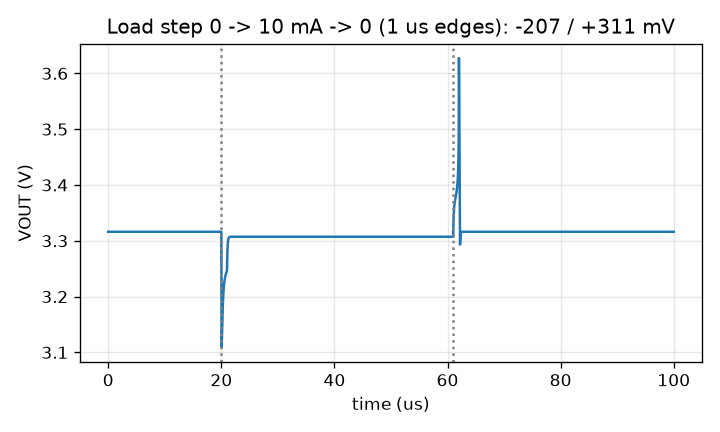
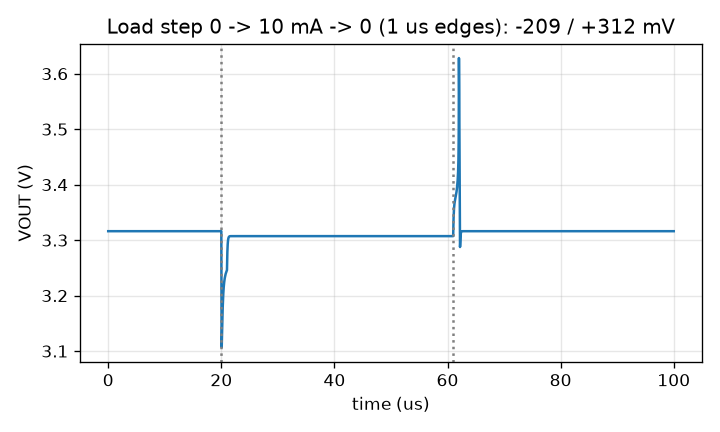
Use GF180MCU PDK resistors and MIM capacitor; add R/C corners
- Rref, RrefFB, RrefEA, R1, R2 -> ppolyf_u_2k_6p0 (5V-domain hi-res poly);
  Cc -> cap_mim_2f0fF, top plate on EAOUT, bottom plate on VOUT
- RrefFB/RrefEA (test-buffer bias) 1M -> 2M: with PDK resistors, Iq hit
  111 uA at fast-resistor/110C; now 95 uA worst, 62 uA typical
- Testbenches load res/mim model sections; run_sims.py sweeps MOS x R/C
  corners x temperature (45 combinations), all specs pass

diff --git a/simulations/run_sims.py b/simulations/run_sims.py
@@ -182,7 +182,8 @@ def typical():
 
 
 # ------------------------------------------------------------------ corners
-CORNERS = ["typical", "ff", "ss", "fs", "sf"]
+CORNERS = ["typical", "ff", "ss", "fs", "sf"]      # MOS corners
+RES_CORNERS = ["typical", "ff", "ss"]               # poly resistor + MIM cap corners
 TEMPS = [-40, 27, 110]
 CORNER_TBS = ["tb_iq", "tb_line_reg", "tb_load_reg", "tb_dropout", "tb_psrr"]
 
@@ -191,14 +192,15 @@ def corners():
     rows = []
     for tb in CORNER_TBS:
         netlist(tb)
-    for c in CORNERS:
-        for t in TEMPS:
-            row = {"corner": c, "temp": t}
+    for c, rc, t in [(c, rc, t) for c in CORNERS for rc in RES_CORNERS for t in TEMPS]:
+            row = {"corner": c, "res": rc, "temp": t}
             for tb in CORNER_TBS:
                 src = (RUN / f"{tb}.spice").read_text()
                 src = re.sub(r"(sm141064\.ngspice) typical", rf"\1 {c}", src)
+                src = src.replace("sm141064.ngspice res_typical", f"sm141064.ngspice res_{rc}")
+                src = src.replace("sm141064.ngspice mimcap_typical", f"sm141064.ngspice mimcap_{rc}")
                 src = src.replace(".control", f".temp {t}\n.control", 1)
-                tag = f"{tb}_{c}_{t}"
+                tag = f"{tb}_{c}_{rc}_{t}"
                 src = src.replace(f"{tb}.raw", f"{tag}.raw").replace(f"{tb}.txt", f"{tag}.txt")
                 (RUN / f"{tag}.spice").write_text(src)
                 row.update(simulate(RUN / f"{tag}.spice", tag))
@@ -207,7 +209,7 @@ def corners():
                 if tb == "tb_load_reg":
                     d = load(tag)
                     row["vout_5mA"] = float(np.interp(5e-3, d[:, 0], d[:, 1]))
-            print(f"  {c:8s} {t:4d}C  VOUT {row['vout_5mA']:.4f} V  Iq {row['iq_uA']:.1f} uA  "
+            print(f"  {c:8s} R/C {rc:8s} {t:4d}C  VOUT {row['vout_5mA']:.4f} V  Iq {row['iq_uA']:.1f} uA  "
                   f"dropout {row['dropout_mV']:.0f} mV  PSRR {row['psrr_100Hz_dB']:.1f} dB", flush=True)
             rows.append(row)
     return rows
@@ -258,12 +260,14 @@ def write_summary(r, rows):
             "",
             "## Process corners x temperature (VIN = 5.0 V)",
             "",
-            "| Corner | Temp (C) | VOUT @5 mA (V) | Iq (uA) | Line reg (%) | Load reg (%) | Dropout @10 mA (mV) | PSRR @100 Hz (dB) |",
-            "|---|---|---|---|---|---|---|---|",
+            "MOS corners tt/ff/ss/fs/sf x poly-resistor and MIM-capacitor corners typical/ff/ss x -40/27/110 C.",
+            "",
+            "| MOS corner | R/C corner | Temp (C) | VOUT @5 mA (V) | Iq (uA) | Line reg (%) | Load reg (%) | Dropout @10 mA (mV) | PSRR @100 Hz (dB) |",
+            "|---|---|---|---|---|---|---|---|---|",
         ]
         for w in rows:
             lines.append(
-                f"| {w['corner']} | {w['temp']} | {w['vout_5mA']:.4f} {'' if S['vout_min'] <= w['vout_5mA'] <= S['vout_max'] else '**FAIL**'} | "
+                f"| {w['corner']} | {w['res']} | {w['temp']} | {w['vout_5mA']:.4f} {'' if S['vout_min'] <= w['vout_5mA'] <= S['vout_max'] else '**FAIL**'} | "
                 f"{w['iq_uA']:.1f} {'' if w['iq_uA'] <= S['iq_max_uA'] else '**FAIL**'} | "
                 f"{w['line_reg_pct']:.3f} {'' if w['line_reg_pct'] <= S['line_reg_max_pct'] else '**FAIL**'} | "
                 f"{w['load_reg_pct']:.3f} {'' if w['load_reg_pct'] <= S['load_reg_max_pct'] else '**FAIL**'} | "

diff --git a/simulations/results/summary.md b/simulations/results/summary.md
@@ -5,19 +5,19 @@ EN = 3.3 V (harness logic level), CL = 2 pF, unless noted.
 
 | Parameter | Spec | Simulated | Result | Testbench |
 |---|---|---|---|---|
-| Output voltage (5 mA) | 3.201 - 3.399 V | 3.3092 V | PASS | tb_load_reg |
+| Output voltage (5 mA) | 3.201 - 3.399 V | 3.3091 V | PASS | tb_load_reg |
 | Dropout (10 mA) | <= 300 mV | 152 mV | PASS | tb_dropout |
-| Quiescent current (no load) | <= 100 uA | 72.4 uA | PASS | tb_iq |
+| Quiescent current (no load) | <= 100 uA | 62.4 uA | PASS | tb_iq |
 | Line regulation (4.5-5.5 V, 5 mA) | <= 1.0 % | 0.042 % | PASS | tb_line_reg |
 | Load regulation (0-10 mA) | <= 1.0 % | 0.270 % | PASS | tb_load_reg |
 | PSRR (100 Hz, 5 mA) | >= 40 dB | 59.0 dB | PASS | tb_psrr |
 | PSRR (10 kHz / 1 MHz) | - | 44.0 / 5.3 dB | info | tb_psrr |
-| Load step 0->10 mA, 1 us | - | -207 / +311 mV | info | tb_tran_load |
+| Load step 0->10 mA, 1 us | - | -209 / +312 mV | info | tb_tran_load |
 | Line step 5.0->4.5 V, 1 us | - | -54 / +52 mV | info | tb_tran_line |
 | EN off -> VOUT | 0 V | 0.00 mV | PASS | tb_en |
 | EN turn-on time (to 3.2 V) | - | 1.63 us | info | tb_en |
 | EN switching threshold | 3.3 V logic | 1.38 / 1.57 V (VIN 4.5 / 5.5) | PASS | tb_en_dc |
-| Shutdown current (EN = 0) | - | 55.5 uA | info | tb_iq |
+| Shutdown current (EN = 0) | - | 46.5 uA | info | tb_iq |
 
 ![line regulation](line_reg.png) ![load regulation](load_reg.png)
 ![dropout](dropout.png) ![PSRR](psrr.png)
@@ -26,20 +26,52 @@ EN = 3.3 V (harness logic level), CL = 2 pF, unless noted.
 
 ## Process corners x temperature (VIN = 5.0 V)
 
-| Corner | Temp (C) | VOUT @5 mA (V) | Iq (uA) | Line reg (%) | Load reg (%) | Dropout @10 mA (mV) | PSRR @100 Hz (dB) |
-|---|---|---|---|---|---|---|---|
-| typical | -40 | 3.3092  | 71.1  | 0.035  | 0.209  | 107  | 60.6  |
-| typical | 27 | 3.3092  | 72.4  | 0.042  | 0.270  | 152  | 59.0  |
-| typical | 110 | 3.3092  | 74.1  | 0.048  | 0.370  | 208  | 57.6  |
-| ff | -40 | 3.3087  | 78.8  | 0.048  | 0.206  | 82  | 57.8  |
-| ff | 27 | 3.3087  | 80.0  | 0.057  | 0.276  | 122  | 56.2  |
-| ff | 110 | 3.3089  | 81.9  | 0.066  | 0.523  | 168  | 54.8  |
-| ss | -40 | 3.3099  | 65.5  | 0.021  | 0.220  | 136  | 65.5  |
-| ss | 27 | 3.3098  | 66.7  | 0.026  | 0.278  | 192  | 63.6  |
-| ss | 110 | 3.3097  | 68.4  | 0.029  | 0.359  | 262  | 62.1  |
-| fs | -40 | 3.3101  | 75.1  | 0.019  | 0.211  | 131  | 66.1  |
-| fs | 27 | 3.3101  | 76.5  | 0.023  | 0.269  | 187  | 64.1  |
-| fs | 110 | 3.3102  | 78.4  | 0.027  | 0.355  | 252  | 62.5  |
-| sf | -40 | 3.3086  | 67.9  | 0.055  | 0.214  | 87  | 56.5  |
-| sf | 27 | 3.3085  | 69.0  | 0.065  | 0.281  | 123  | 55.1  |
-| sf | 110 | 3.3084  | 70.6  | 0.074  | 0.416  | 168  | 53.8  |
+MOS corners tt/ff/ss/fs/sf x poly-resistor and MIM-capacitor corners typical/ff/ss x -40/27/110 C.
+
+| MOS corner | R/C corner | Temp (C) | VOUT @5 mA (V) | Iq (uA) | Line reg (%) | Load reg (%) | Dropout @10 mA (mV) | PSRR @100 Hz (dB) |
+|---|---|---|---|---|---|---|---|---|
+| typical | typical | -40 | 3.3089  | 54.9  | 0.032  | 0.206  | 107  | 61.5  |
+| typical | typical | 27 | 3.3091  | 62.4  | 0.042  | 0.270  | 152  | 59.0  |
+| typical | typical | 110 | 3.3098  | 71.2  | 0.052  | 0.388  | 207  | 56.9  |
+| typical | ff | -40 | 3.3094  | 67.3  | 0.038  | 0.213  | 107  | 59.9  |
+| typical | ff | 27 | 3.3099  | 76.6  | 0.048  | 0.286  | 152  | 57.6  |
+| typical | ff | 110 | 3.3110  | 87.4  | 0.059  | 0.437  | 206  | 55.7  |
+| typical | ss | -40 | 3.3086  | 46.5  | 0.028  | 0.201  | 108  | 62.8  |
+| typical | ss | 27 | 3.3086  | 52.8  | 0.037  | 0.260  | 153  | 60.2  |
+| typical | ss | 110 | 3.3089  | 60.3  | 0.046  | 0.362  | 208  | 58.0  |
+| ff | typical | -40 | 3.3083  | 60.1  | 0.044  | 0.201  | 83  | 58.5  |
+| ff | typical | 27 | 3.3087  | 68.2  | 0.057  | 0.276  | 122  | 56.2  |
+| ff | typical | 110 | 3.3095  | 77.8  | 0.071  | 0.597  | 167  | 54.1  |
+| ff | ff | -40 | 3.3088  | 73.6  | 0.051  | 0.211  | 82  | 57.2  |
+| ff | ff | 27 | 3.3096  | 83.5  | 0.065  | 0.297  | 122  | 55.0  |
+| ff | ff | 110 | 3.3109  | 95.2  | 0.081  | 0.809  | 166  | 52.9  |
+| ff | ss | -40 | 3.3079  | 51.1  | 0.039  | 0.195  | 83  | 59.6  |
+| ff | ss | 27 | 3.3081  | 57.9  | 0.051  | 0.263  | 123  | 57.2  |
+| ff | ss | 110 | 3.3086  | 66.0  | 0.063  | 0.491  | 168  | 55.2  |
+| ss | typical | -40 | 3.3096  | 51.1  | 0.020  | 0.217  | 137  | 66.3  |
+| ss | typical | 27 | 3.3097  | 58.1  | 0.026  | 0.278  | 192  | 63.6  |
+| ss | typical | 110 | 3.3102  | 66.2  | 0.031  | 0.369  | 262  | 61.7  |
+| ss | ff | -40 | 3.3100  | 62.5  | 0.023  | 0.223  | 136  | 65.0  |
+| ss | ff | 27 | 3.3104  | 71.1  | 0.028  | 0.290  | 191  | 62.9  |
+| ss | ff | 110 | 3.3113  | 81.0  | 0.031  | 0.393  | 261  | 61.7  |
+| ss | ss | -40 | 3.3093  | 43.3  | 0.018  | 0.214  | 137  | 67.6  |
+| ss | ss | 27 | 3.3092  | 49.1  | 0.023  | 0.270  | 192  | 64.7  |
+| ss | ss | 110 | 3.3095  | 56.1  | 0.028  | 0.354  | 263  | 62.5  |
+| fs | typical | -40 | 3.3097  | 57.5  | 0.017  | 0.208  | 132  | 67.3  |
+| fs | typical | 27 | 3.3101  | 65.5  | 0.023  | 0.269  | 187  | 64.1  |
+| fs | typical | 110 | 3.3109  | 74.9  | 0.029  | 0.370  | 251  | 61.8  |
+| fs | ff | -40 | 3.3103  | 70.6  | 0.021  | 0.215  | 131  | 65.2  |
+| fs | ff | 27 | 3.3110  | 80.4  | 0.027  | 0.284  | 186  | 62.5  |
+| fs | ff | 110 | 3.3123  | 91.9  | 0.032  | 0.408  | 245  | 60.8  |
+| fs | ss | -40 | 3.3093  | 48.7  | 0.014  | 0.203  | 132  | 69.4  |
+| fs | ss | 27 | 3.3095  | 55.4  | 0.020  | 0.260  | 187  | 65.6  |
+| fs | ss | 110 | 3.3100  | 63.4  | 0.026  | 0.348  | 252  | 62.9  |
+| sf | typical | -40 | 3.3083  | 53.0  | 0.052  | 0.210  | 87  | 57.1  |
+| sf | typical | 27 | 3.3085  | 59.9  | 0.065  | 0.281  | 123  | 55.1  |
+| sf | typical | 110 | 3.3090  | 68.2  | 0.079  | 0.445  | 173  | 53.2  |
+| sf | ff | -40 | 3.3087  | 64.8  | 0.058  | 0.218  | 87  | 56.0  |
+| sf | ff | 27 | 3.3092  | 73.4  | 0.072  | 0.297  | 122  | 54.1  |
+| sf | ff | 110 | 3.3101  | 83.5  | 0.087  | 0.521  | 172  | 52.4  |
+| sf | ss | -40 | 3.3080  | 45.0  | 0.046  | 0.205  | 88  | 58.1  |
+| sf | ss | 27 | 3.3080  | 50.8  | 0.058  | 0.270  | 123  | 56.0  |
+| sf | ss | 110 | 3.3082  | 57.8  | 0.072  | 0.404  | 168  | 54.1  |

diff --git a/README.md b/README.md
@@ -74,7 +74,8 @@ Provides a locally-regulated, low-noise 3.3V rail, isolated from the noise on th
 
 Schematic design and pre-layout simulation are complete; all target
 specifications are met in simulation at the typical corner and across
-process corners (tt/ff/ss/fs/sf) from -40 C to 110 C. Layout, DRC/LVS
+process corners: MOS tt/ff/ss/fs/sf x poly-resistor/MIM-capacitor
+typical/ff/ss x -40/27/110 C (45 combinations). Layout, DRC/LVS
 sign-off and post-layout verification have not started yet.
 
 ## 7. Harness Resources Required
@@ -89,9 +90,22 @@ sign-off and post-layout verification have not started yet.
 | 2 shared analog lines | `FB_BUF`, `EAOUT_BUF` test outputs |
 | Bandgap-referenced current sources | none (biasing is internal) |
 
-All transistors are 5V devices (`nfet_05v0` / `pfet_05v0`), matching the 5.0V
-`VIN` domain. `EN` comes from the harness's 3.3V logic, so it passes through an
+All devices are GF180MCU PDK devices rated for the 5.0V `VIN` domain:
+transistors are `nfet_05v0` / `pfet_05v0`, resistors are high-resistance poly
+`ppolyf_u_2k_6p0`, and the compensation capacitor is a MIM `cap_mim_2f0fF`. `EN` comes from the harness's 3.3V logic, so it passes through an
 internal 3.3V-to-`VIN` level shifter (`xschem/ldo_levelshift.sch`).
+
+### Passive Devices
+
+| Instance | Value | Device | W x L |
+|---|---|---|---|
+| `Rref` (error-amp tail bias) | 200 kOhm | `ppolyf_u_2k_6p0` | 1 x 95.59 um |
+| `RrefFB`, `RrefEA` (test-buffer bias) | 2 MOhm | `ppolyf_u_2k_6p0` | 1 x 957.9 um |
+| `R1` / `R2` (feedback divider) | 175 / 100 kOhm | `ppolyf_u_2k_6p0` | 2 x 171.40 / 2 x 97.85 um |
+| `Cc` (Miller compensation) | 3.0 pF | `cap_mim_2f0fF` | 38.6 x 38.6 um |
+
+`R1` and `R2` use the same resistor type and width, so their ratio (which sets
+`VOUT`) is independent of sheet-resistance and width variation and temperature.
 
 ## 8. Simulation Results (schematic, pre-layout)
 
@@ -102,11 +116,14 @@ plots and the process/temperature corner table are in
 | Parameter | Spec | Simulated |
 |---|---|---|
 | Output voltage (5 mA) | 3.201V - 3.399V | 3.309V |
-| Dropout voltage (10 mA) | max 300 mV | 152 mV (262 mV worst corner) |
-| Quiescent current | max 100 uA | 72 uA (82 uA worst corner) |
-| Line regulation | max 1% | 0.042% |
-| Load regulation | max 1% | 0.270% (0.523% worst corner) |
-| PSRR (low frequency) | min 40 dB | 59 dB at 100 Hz (54 dB worst corner) |
+| Dropout voltage (10 mA) | max 300 mV | 152 mV (263 mV worst corner) |
+| Quiescent current | max 100 uA | 62 uA (95 uA worst corner) |
+| Line regulation | max 1% | 0.042% (0.087% worst corner) |
+| Load regulation | max 1% | 0.270% (0.81% worst corner) |
+| PSRR (low frequency) | min 40 dB | 59 dB at 100 Hz (52 dB worst corner) |
+
+Worst corners: dropout at slow MOS / slow resistors / 110 C; quiescent current
+and load regulation at fast MOS / fast resistors / 110 C.
 
 ## 9. Repository Layout
 
@@ -136,12 +153,11 @@ in this repository or in the PDK via `$PDK_ROOT`.
 
 ## 11. Open Items
 
-- Replace ideal resistors (`Rref`, `RrefFB`, `RrefEA`, `R1`, `R2`) and the
-  compensation capacitor `Cc` with GF180MCU poly resistors and a MIM capacitor
-  before layout.
+- Quiescent current has ~5% margin at the fast-resistor / 110 C corner
+  (95 uA vs 100 uA); bias currents are set by poly resistors from `VIN`.
 - Add an AC loop-gain / phase-margin testbench across corners (current
   stability evidence: load- and line-step transients).
-- Load-step overshoot (+311 mV for a 0-10 mA step in 1 us) is not yet
+- Load-step overshoot (+312 mV for a 0-10 mA step in 1 us) is not yet
   specified; decide on a transient spec or reduce it.
 - Layout in the harness slot (template TBD), DRC/LVS, post-layout PVT.
 
